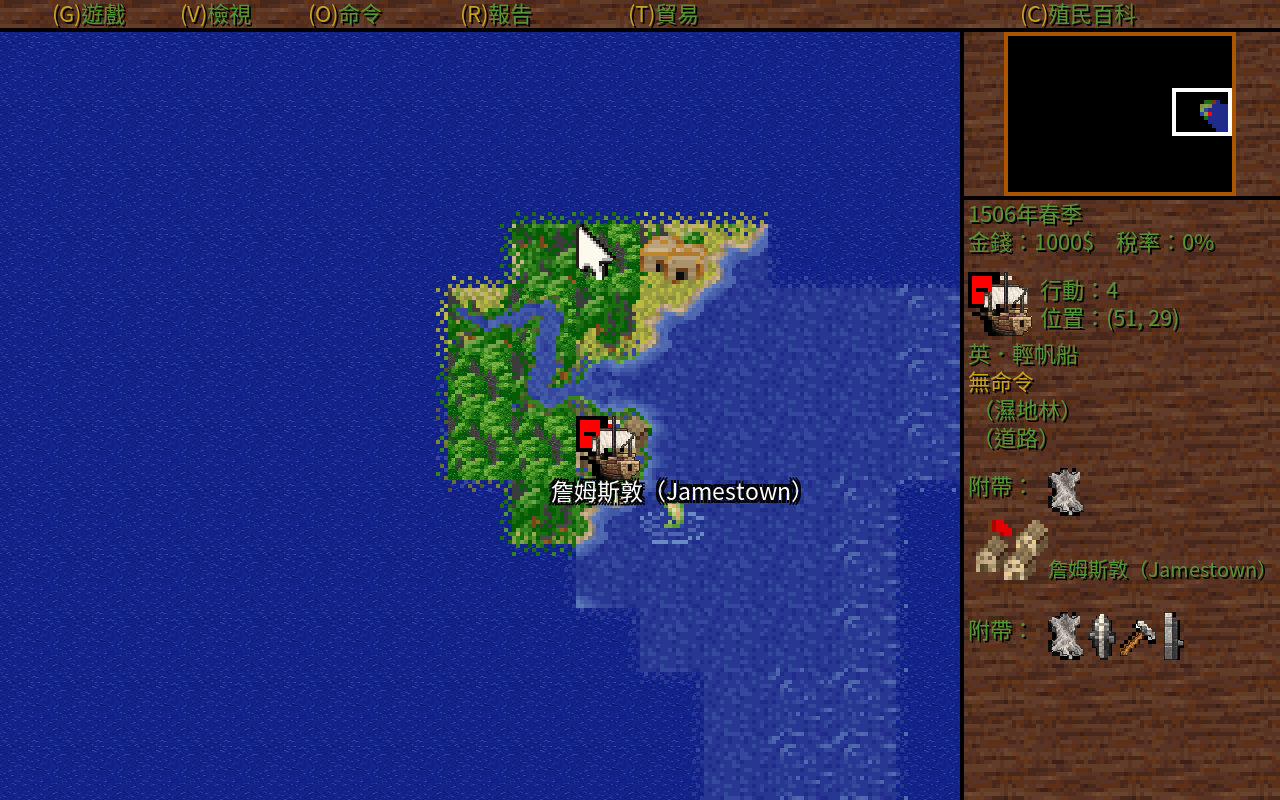
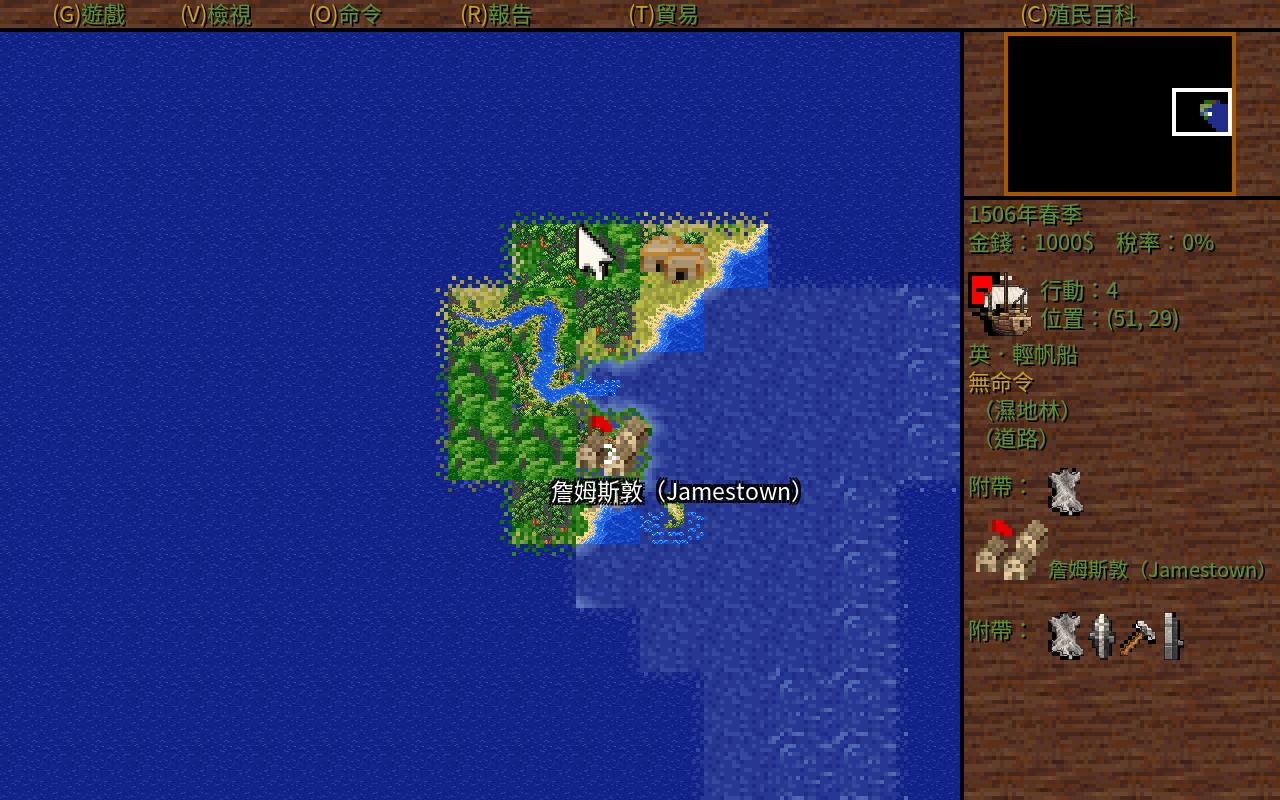
更新 README 為十二地形接線後的正式 HD 畫面

Changed region(s): [[0.3438, 0.2812, 0.625, 0.6875]]

diff --git a/CONTEXT.md b/CONTEXT.md
@@ -6,7 +6,7 @@
 
 | 項目 | 目前狀態與證據 |
 |---|---|
-| 小圖像正式 | [規格065](docs/spec/065-hd-small-images.md) R57。規格065 R57限定CONFORMED，30張小圖像、世界5種與城內28種，全專案現有46種正式素材／清冊47檔。826Go零skip與go vet、49點原版狀態／存檔、633來源／RAM及125載入反例通過。102組五語GUI、111點獨立原版模型與7529424個RGBA像素相同；187筆實際輸入四側至327600000步，完整原版狀態、WAV及存檔保持。45種本批新行程與136項封裝拒絕通過。守門回退0組另記，不計持續HD，五語城內來源恢復。正式play=true驗28張城內圖像，frames為0。 證據根hd-small-images-batch-r57。R57未含游標本身，一般游標現況見規格066；其他圖像、動畫及全量HD未完成，沒有新發行。 |
+| 小圖像正式 | [規格065](docs/spec/065-hd-small-images.md) R57。規格065 R57限定CONFORMED，30張小圖像、世界5種與城內28種，全專案現有58種正式素材／清冊59檔。826Go零skip與go vet、49點原版狀態／存檔、633來源／RAM及125載入反例通過。102組五語GUI、111點獨立原版模型與7529424個RGBA像素相同；187筆實際輸入四側至327600000步，完整原版狀態、WAV及存檔保持。45種本批新行程與136項封裝拒絕通過。守門回退0組另記，不計持續HD，五語城內來源恢復。正式play=true驗28張城內圖像，frames為0。 證據根hd-small-images-batch-r57。R57未含游標本身，一般游標現況見規格066；其他圖像、動畫及全量HD未完成，沒有新發行。 |
 | 小圖像還原研究 | R51的31來源、420次繪製與180696事件已獨立重建，53筆正常輸入及49點完整原版狀態／存檔保持。第005幀有547保存、422 RAM還原；一般游標有第005幀104筆及第062幀156筆還原。其他來源沒有本批還原正向樣本，不外推。12個RAM反例通過，之後49份正向模型逐byte全等；公開工具重生Go與執行檔全等。第000游標的位元組對照沿R51，來源資料流與定位已由R59確認，見下一列。入口見目標186與RESEARCH-LOG R51。 |
 | 世界地形批次 | [規格067](docs/spec/067-hd-world-terrain-batch.md) 規格067 R63限定CONFORMED，十二種新世界地形已正式接線，合計58種正式素材／清冊59檔、50Go／33綁定。872Go零skip與go vet、29點原版狀態／存檔及823856個RGBA、108來源與40載入反例通過。96組五語GUI、36份來源懸停、65點獨立原版模型與1020160個地形RGBA、47232個游標RGBA通過。143筆實際輸入四側至252000000步，完整原版狀態／WAV／存檔相同。未加擷取器的play=true、frames為0及循序ABBA通過，Linux成本比例1.5285只為有界抽樣。20種啟動回退／恢復與178項封裝拒絕通過。全量HD、其餘單位、背景、特殊游標與動畫未完成，沒有新發行。 本機根hd-world-terrain-prototype-r63。 |
 | 一般游標 | [規格066](docs/spec/066-hd-standard-cursor.md) 規格066 R61限定CONFORMED，一般游標已正式接線。原圖／alpha保持，原版輪廓加生成筆觸；46種正式素材／清冊47檔、47Go／30綁定。834Go零skip與go vet、49份元件／64288像素、6守門與7載入拒絕、92組五語GUI及29份快照／31840游標像素通過。九個邊界／恢復有8份可見HD、右下角1份全裁切，沒有守門回退。109筆實際輸入四側至219000000步的完整原版狀態／WAV／存檔相同；未加觀測器的play=true與循序ABBA亦通過。9種本批新行程及142項封裝拒絕通過。其他游標、隱藏狀態、背景、動畫與全量HD仍待接續，沒有新發行。 本機根hd-cursor-formal-r61。 |
@@ -15,7 +15,7 @@
 | HD中央第009幀 | 中央第009幀已正式接線並限定CONFORMED，合計十四種HD素材／15檔，維持單一城內來源群組、41Go檔／24來源綁定。734Go零skip、go vet、49點原版狀態／存檔、200來源反例及既有31海洋／17人物／20木棚反例通過。十來源130次呼叫、430234事件及480筆游標還原與獨立原版模型相符。452組五語GUI、1808設定事件、17466不透明游標像素及中央五語恢復通過，14筆中央現況診斷均有HD，原始逐寫快照仍沿R44。650筆實際輸入四側重播至1005200000步，完整CPU／RAM／VGA／DAC、WAV及存檔全同。44種啟動缺件／恢復、219設定事件及44項封裝拒絕通過，原日文HD偏好不變。三組暫停守門回原圖保留；木棚放開139點，正常重進恢復263點。證據根hd-building009-formal-r45，其他地形、人物、動畫、跨平台效能與完整HD未完成，沒有新發行。 |
 | HD城內群組 | 規格064現行正式結果見上列R45。R43九來源的限定CONFORMED及原始驗證仍保留。R46地形逐寫研究已有13來源及暫存轉送模型，仍為DRAFT，未加入正式HD。 |
 | HD世界地形 | 規格062 R58限定CONFORMED，世界079與海洋共用既有觀測，合計45種正式素材／清冊46檔、45Go／28綁定。827Go零skip與go vet、49點原版來源及31反例、92組五語GUI、20點獨立來源／330992個像素、97筆實際輸入四側至199200000步通過。存檔前後十次五語恢復各1129點；沒有守門回退。正式play=true的世界、城內與存檔返回通過，原版狀態／WAV／存檔保持；固定Linux ABBA成本比例1.1623。6種本批新行程與139項封裝拒絕通過。 證據根hd-terrain079-formal-r58。其他地形、游標、背景、動畫及全量HD仍未完成，沒有新發行。 |
-| README畫面 | 依使用者追加要求，已更新為正式已驗顯示層的HD殖民地、HD世界、繁中五語設定及Noto主選單四張實際畫面。PNG原樣保存，來源與指紋見[截圖紀錄](docs/screenshots/readme-captures.json)。首頁明示開發版，未使用DRAFT地形候選，已發布封包保持。 |
+| README畫面 | 依使用者追加要求，已更新為正式已驗顯示層的HD殖民地、HD世界、繁中五語設定及Noto主選單四張實際畫面。四圖已更新為R63的58種正式素材版本，PNG原樣保存，來源程式c33d432與指紋見[截圖紀錄](docs/screenshots/readme-captures.json)。首頁明示開發版，未使用DRAFT地形候選，已發布封包保持。 |
 | HD正式木棚 | [規格064](docs/spec/064-hd-colony-building-batch.md)第024幀限定CONFORMED，城內群組最新狀態見R45。R39原圖與alpha原樣加入graphics，正式39個Go檔／22來源綁定、既有啟動器與五檔封裝白名單已接線，五個來源方法與R40相同。703Go零skip、go vet、49點完整原版狀態／存檔、20木棚／17人物／31海洋反例通過；缺原版另驗三個明確skip。322組五語GUI、1288筆設定事件與12218個不透明游標像素通過；108組HD木棚263點有效、204區塊含alpha，51組木棚0點，另2組守門回原圖。拖曳來源不符仍回原圖並保留語言，放開後恢復。332筆實際輸入四側重播至604200000步，完整CPU／RAM／VGA／DAC、WAV與存檔全同。14種新行程缺件／恢復及14項封裝反例通過，69筆設定事件不改原版，原日文HD偏好位元組保持。證據根hd-building024-formal-r41；未接受背景RAM轉送，其他素材、動畫、跨平台效能、完整HD與新發行待續。 |
 | HD人物正式首個 | [規格063](docs/spec/063-hd-person-draw-lifecycle.md)限定CONFORMED。使用者確認的v2原圖及alpha已原樣加入graphics，人物第100幀接入正式建置、既有啟動器與封裝白名單。699Go零skip、go vet、49點原版狀態／存檔、17人物及31海洋反例通過；五個人物來源方法與R37相同。252組五語原版／HD、1008筆設定事件及9512個不透明游標像素通過，沒有守門回退。75組城內HD皆120點有效來源、92點含alpha而實際合成；51組主選單／世界／存檔／百科／離城等HD畫面皆0點。229筆實際輸入四側重播至458200000步，完整CPU／RAM／VGA／DAC、WAV及存檔全同。11種新行程缺件／錯件／連結及恢復驗證通過，54筆設定事件不改原版，日文HD偏好位元組不變；11項封裝反例全拒絕。原版參考與收據留本機hd-person-formal-r38。其他人物、動畫、跨平台效能及完整HD未完成，沒有新版發行。 |
 | 本輪範圍 | 五語切換、非英文英數高清字型、所有玩家可見圖像含小圖像與動畫幀的全量HD、實際遊玩影片與README。README已補背景來源及四張實際截圖；第一張精細像素風已定稿入庫。使用者已確認畫面外設定列、開啟暫停及放開後恢復，決定見[AGENTS.md](AGENTS.md#顯示設定定案)。新增功能未進發行版。已錄51.933秒真實操作，音軌、字幕與90秒成片未完成。入口[目標186](docs/goals/186-display-settings-and-gameplay-video.md)，Issue #62／#63／#64。 |

diff --git a/README.md b/README.md
@@ -79,7 +79,7 @@ Linux需要X11、OpenGL與ALSA；FUSE不可用時，在AppImage檔名後先加 `
 
 ![繁體中文世界畫面與 HD 海洋、地形](docs/screenshots/hd-world-zh.png)
 
-世界畫面：海洋、部分地形與側欄圖示已使用 HD 素材，其餘地形與單位逐項接續。
+世界畫面：海洋、部分河岸與森林地形、側欄圖示已使用 HD 素材，其餘地形與單位逐項接續。
 
 ![五語與原版、HD 圖像模式的顯示設定](docs/screenshots/display-settings-zh.png)
 
